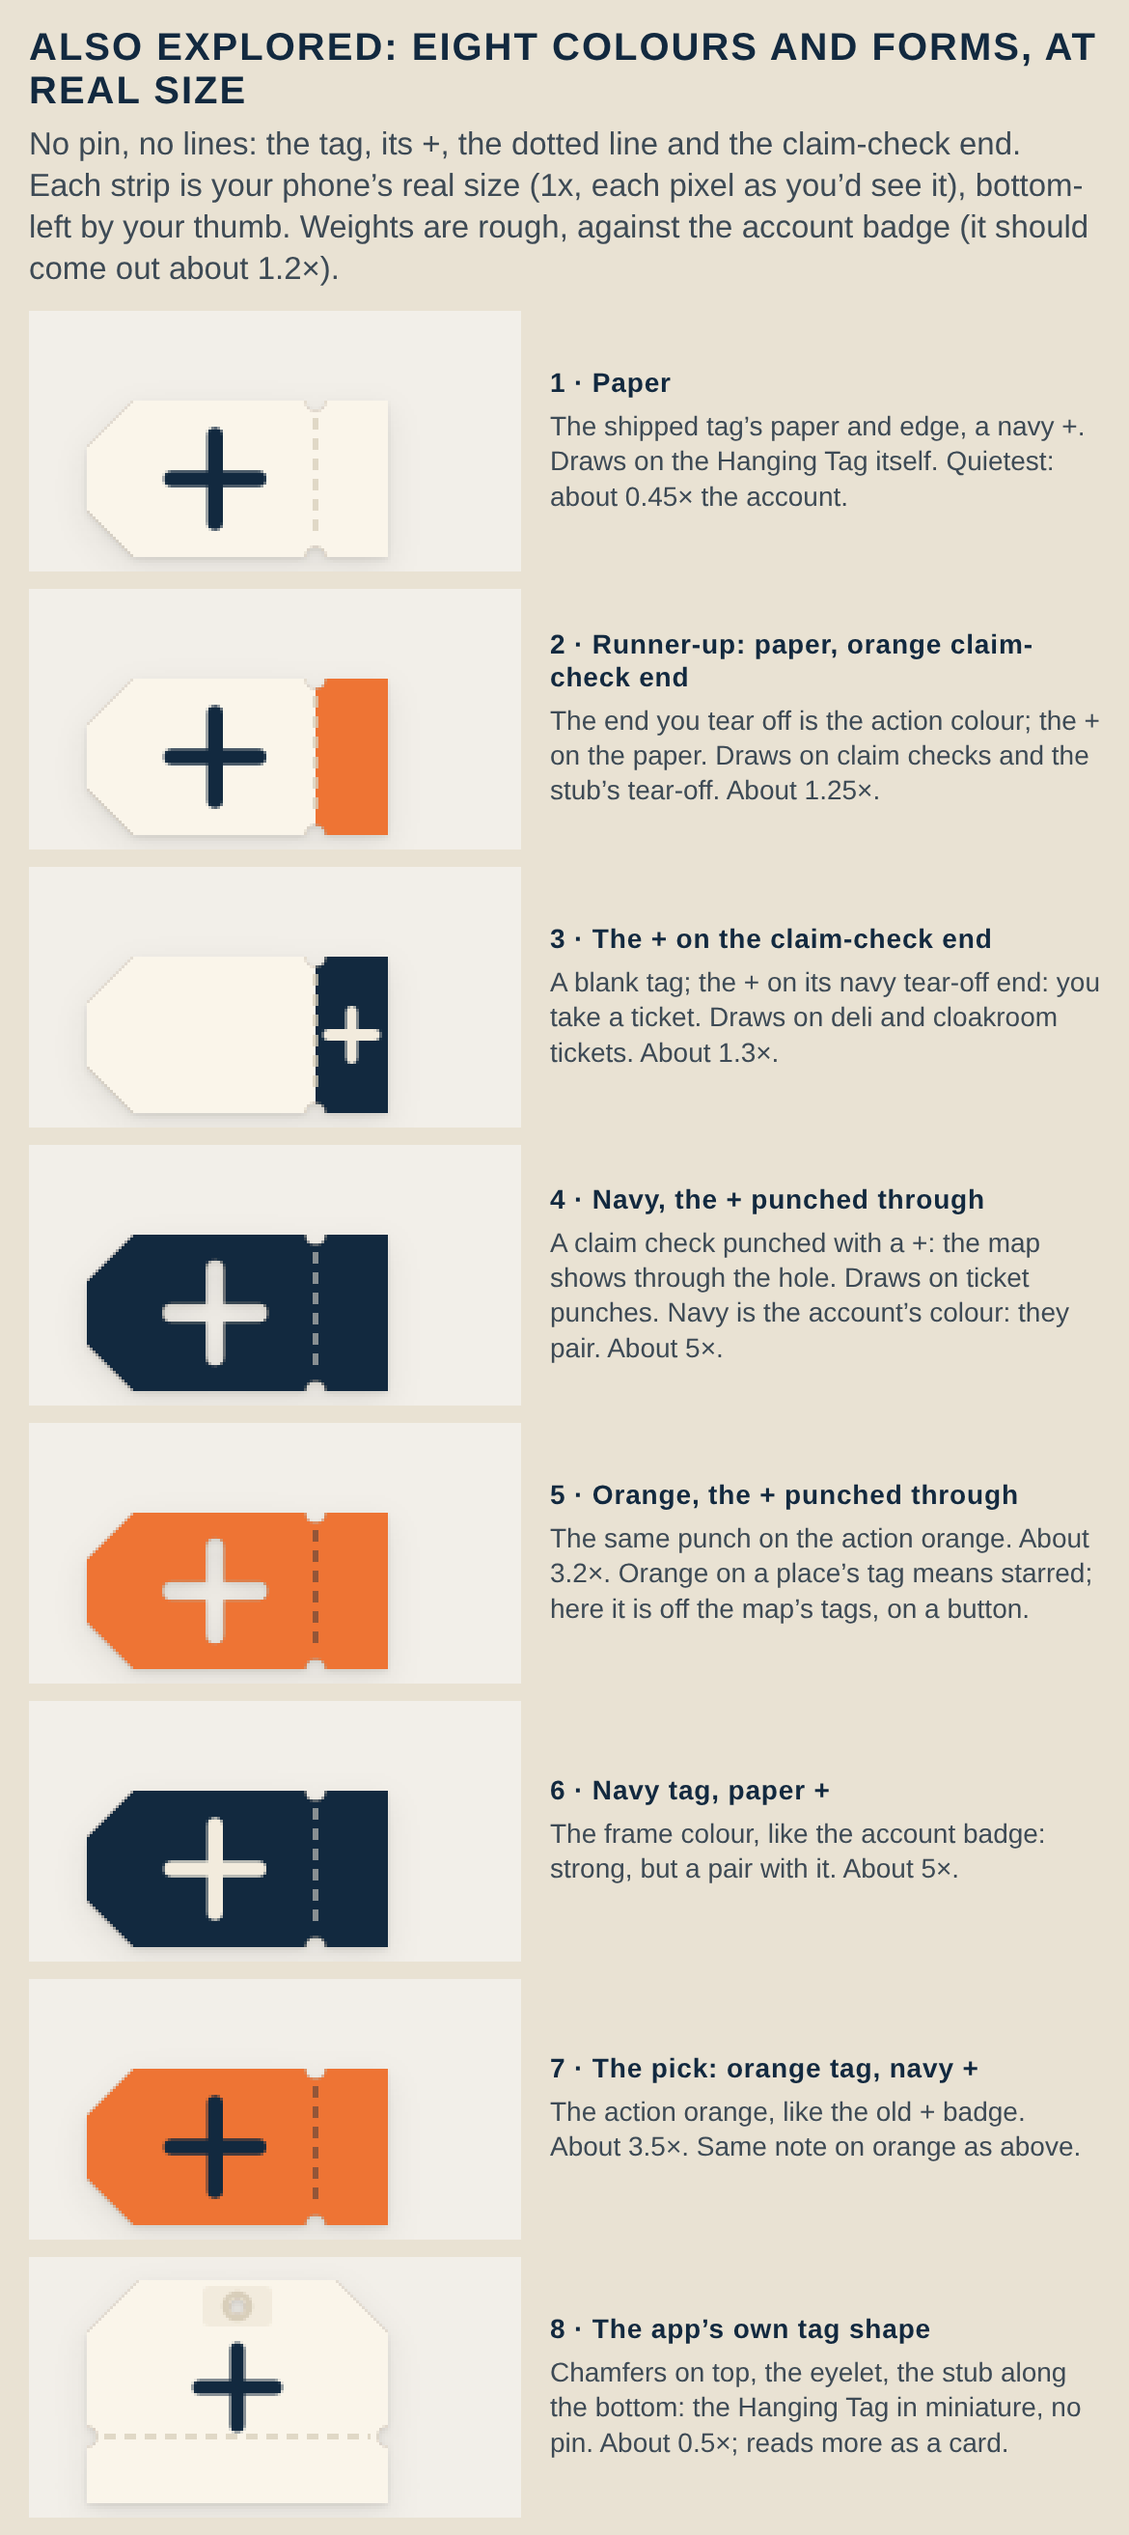
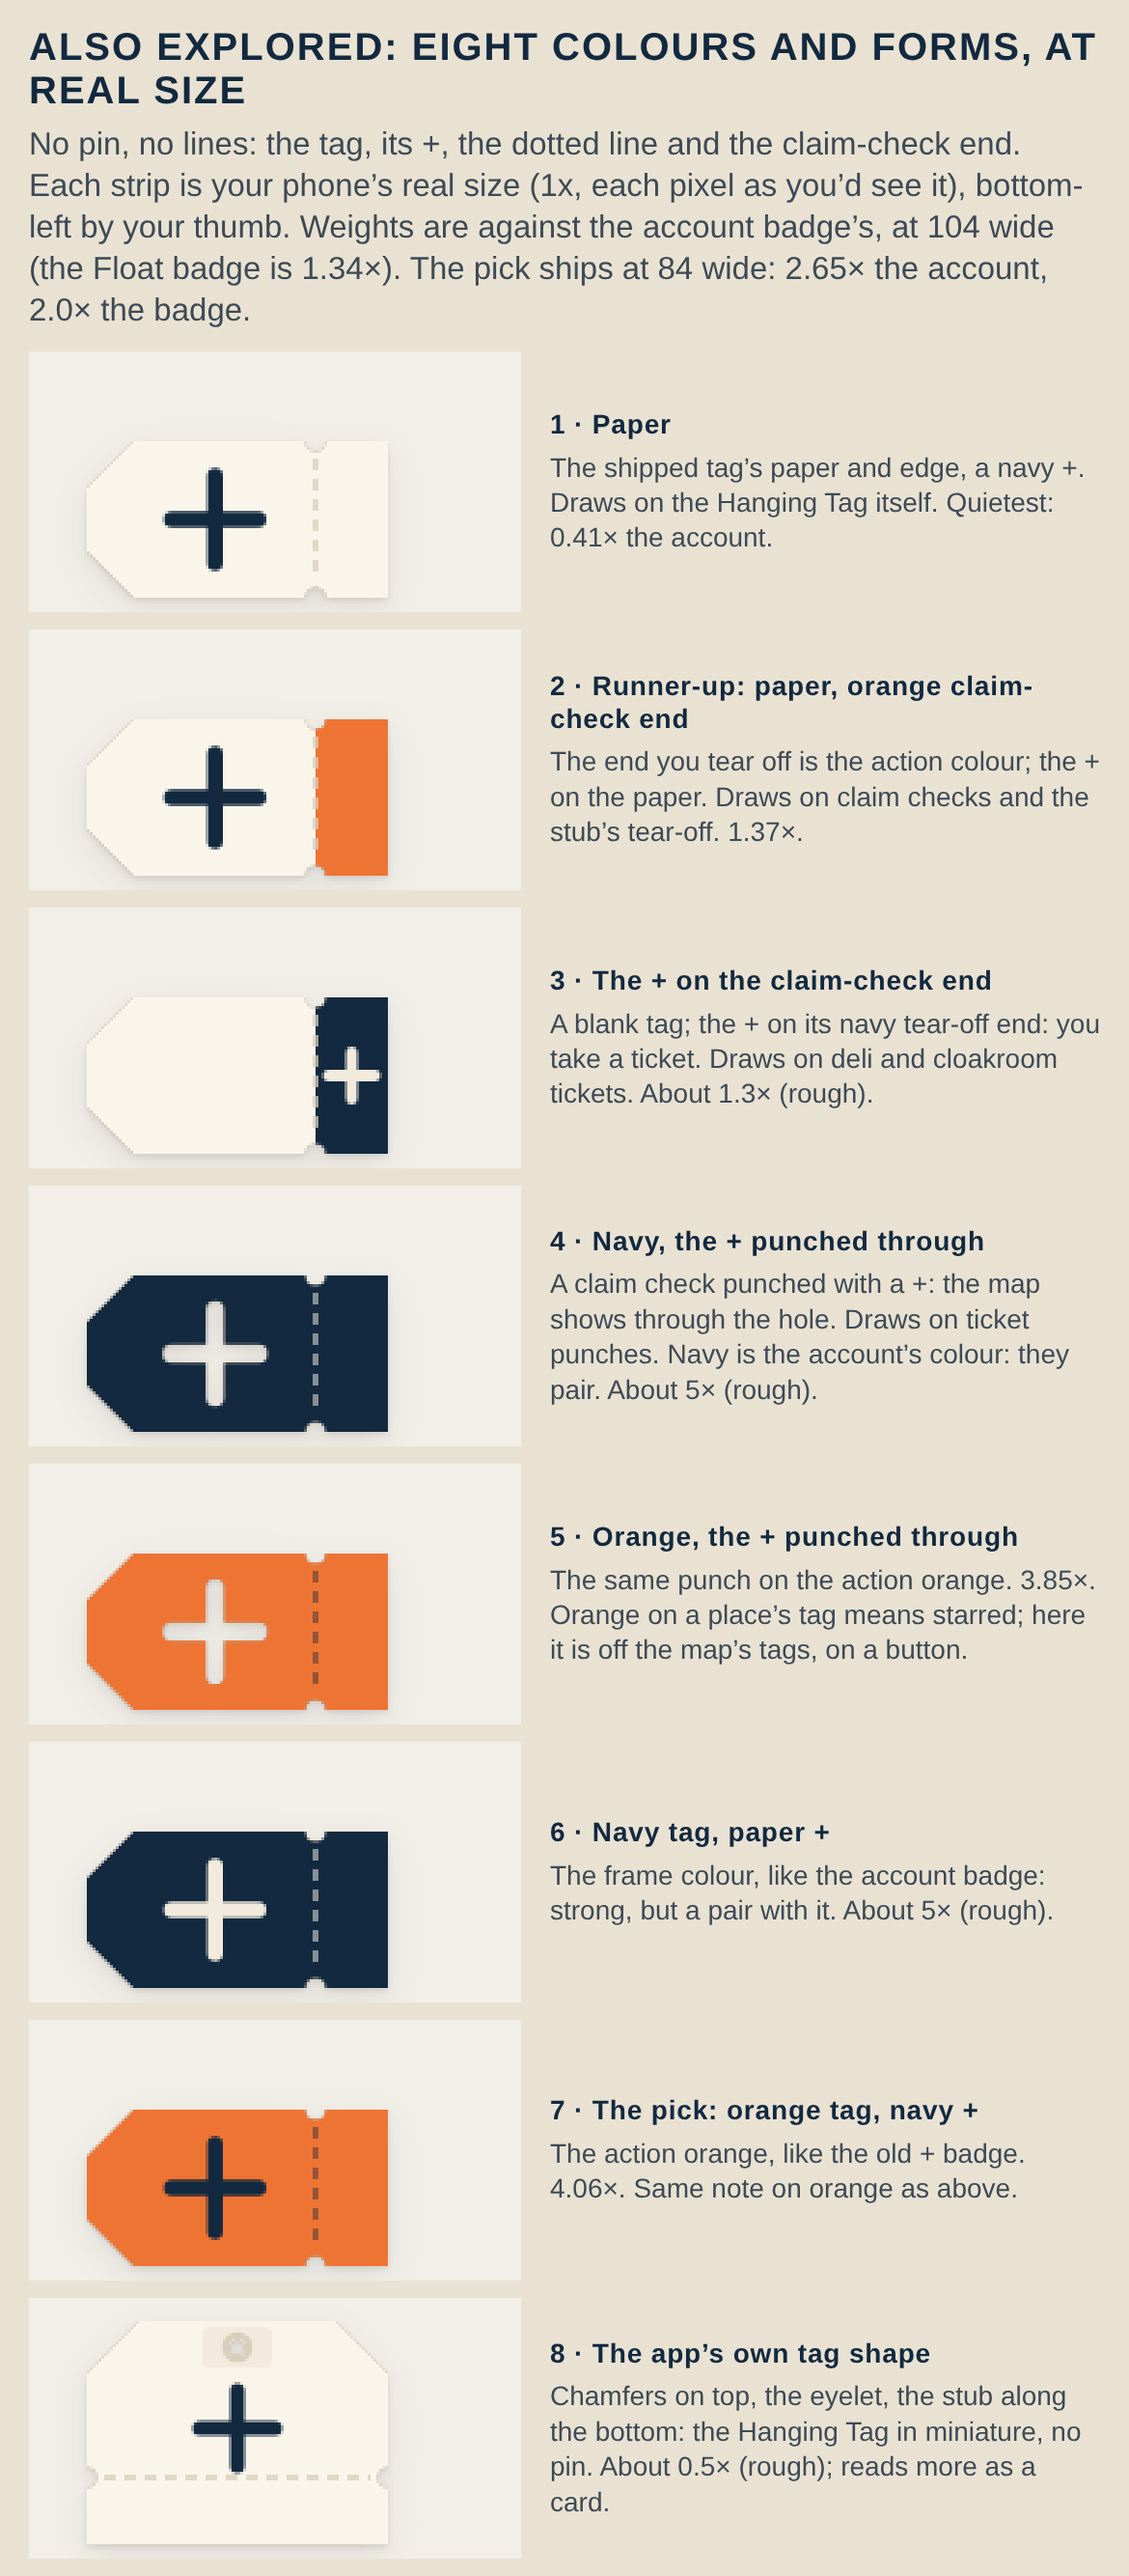
+ placement: round 10 sent to owner

diff --git a/design/add-button-placement/concepts/blank-tag-form/compose.js b/design/add-button-placement/concepts/blank-tag-form/compose.js
@@ -111,8 +111,8 @@ const pages = {
   [CP + 'C8-pressed-3x.png']: `${cap('Pressed', 'The pin goes deep orange and the tag goes to paper: the pressed grammar of every orange action.')}
      <div class="row" style="gap:20px">${col('Rest', crop(f('r9-c-rest'), 0, 430, 190, 525, 575 / 190), 575)}${col('Pressed', crop(f('r9-c-pressed'), 0, 430, 190, 525, 575 / 190), 575)}</div><div class="gap"></div>`,
   // ================= ROUND 10: the tag is the button =================
-  [R10 + 'R1-eight-ways-real-size-3x.png']: `${cap('Also explored: eight colours and forms, at real size', 'No pin, no lines: the tag, its +, the dotted line and the claim-check end. Each strip is your phone’s real size (1x, each pixel as you’d see it), bottom-left by your thumb. Weights are rough, against the account badge (it should come out about 1.2×).')}
-<div class="row" style="padding:0 30px;gap:30px;align-items:center">${crop1(f('t10-paper-1x'), 0, 436, 170, 526, 3)}<div style="flex:1"><div class="lab" style="padding-top:0">1 · Paper</div><div style="font-size:28px;line-height:1.3;color:#3d4a55">The shipped tag’s paper and edge, a navy +. Draws on the Hanging Tag itself. Quietest: about 0.45× the account.</div></div></div><div style="height:18px"></div><div class="row" style="padding:0 30px;gap:30px;align-items:center">${crop1(f('t10-twoend-1x'), 0, 436, 170, 526, 3)}<div style="flex:1"><div class="lab" style="padding-top:0">2 · Runner-up: paper, orange claim-check end</div><div style="font-size:28px;line-height:1.3;color:#3d4a55">The end you tear off is the action colour; the + on the paper. Draws on claim checks and the stub’s tear-off. About 1.25×.</div></div></div><div style="height:18px"></div><div class="row" style="padding:0 30px;gap:30px;align-items:center">${crop1(f('t10-stubplus-1x'), 0, 436, 170, 526, 3)}<div style="flex:1"><div class="lab" style="padding-top:0">3 · The + on the claim-check end</div><div style="font-size:28px;line-height:1.3;color:#3d4a55">A blank tag; the + on its navy tear-off end: you take a ticket. Draws on deli and cloakroom tickets. About 1.3×.</div></div></div><div style="height:18px"></div><div class="row" style="padding:0 30px;gap:30px;align-items:center">${crop1(f('t10-punch-1x'), 0, 436, 170, 526, 3)}<div style="flex:1"><div class="lab" style="padding-top:0">4 · Navy, the + punched through</div><div style="font-size:28px;line-height:1.3;color:#3d4a55">A claim check punched with a +: the map shows through the hole. Draws on ticket punches. Navy is the account’s colour: they pair. About 5×.</div></div></div><div style="height:18px"></div><div class="row" style="padding:0 30px;gap:30px;align-items:center">${crop1(f('t10-punchor-1x'), 0, 436, 170, 526, 3)}<div style="flex:1"><div class="lab" style="padding-top:0">5 · Orange, the + punched through</div><div style="font-size:28px;line-height:1.3;color:#3d4a55">The same punch on the action orange. About 3.2×. Orange on a place’s tag means starred; here it is off the map’s tags, on a button.</div></div></div><div style="height:18px"></div><div class="row" style="padding:0 30px;gap:30px;align-items:center">${crop1(f('t10-navy-1x'), 0, 436, 170, 526, 3)}<div style="flex:1"><div class="lab" style="padding-top:0">6 · Navy tag, paper +</div><div style="font-size:28px;line-height:1.3;color:#3d4a55">The frame colour, like the account badge: strong, but a pair with it. About 5×.</div></div></div><div style="height:18px"></div><div class="row" style="padding:0 30px;gap:30px;align-items:center">${crop1(f('t10-orange-1x'), 0, 436, 170, 526, 3)}<div style="flex:1"><div class="lab" style="padding-top:0">7 · The pick: orange tag, navy +</div><div style="font-size:28px;line-height:1.3;color:#3d4a55">The action orange, like the old + badge. About 3.5×. Same note on orange as above.</div></div></div><div style="height:18px"></div><div class="row" style="padding:0 30px;gap:30px;align-items:center">${crop1(f('t10-apptag-1x'), 0, 436, 170, 526, 3)}<div style="flex:1"><div class="lab" style="padding-top:0">8 · The app’s own tag shape</div><div style="font-size:28px;line-height:1.3;color:#3d4a55">Chamfers on top, the eyelet, the stub along the bottom: the Hanging Tag in miniature, no pin. About 0.5×; reads more as a card.</div></div></div><div style="height:18px"></div>`,
+  [R10 + 'R1-eight-ways-real-size-3x.png']: `${cap('Also explored: eight colours and forms, at real size', 'No pin, no lines: the tag, its +, the dotted line and the claim-check end. Each strip is your phone’s real size (1x, each pixel as you’d see it), bottom-left by your thumb. Weights are against the account badge’s, at 104 wide (the Float badge is 1.34×). The pick ships at 84 wide: 2.65× the account, 2.0× the badge.')}
+<div class="row" style="padding:0 30px;gap:30px;align-items:center">${crop1(f('t10-paper-1x'), 0, 436, 170, 526, 3)}<div style="flex:1"><div class="lab" style="padding-top:0">1 · Paper</div><div style="font-size:28px;line-height:1.3;color:#3d4a55">The shipped tag’s paper and edge, a navy +. Draws on the Hanging Tag itself. Quietest: 0.41× the account.</div></div></div><div style="height:18px"></div><div class="row" style="padding:0 30px;gap:30px;align-items:center">${crop1(f('t10-twoend-1x'), 0, 436, 170, 526, 3)}<div style="flex:1"><div class="lab" style="padding-top:0">2 · Runner-up: paper, orange claim-check end</div><div style="font-size:28px;line-height:1.3;color:#3d4a55">The end you tear off is the action colour; the + on the paper. Draws on claim checks and the stub’s tear-off. 1.37×.</div></div></div><div style="height:18px"></div><div class="row" style="padding:0 30px;gap:30px;align-items:center">${crop1(f('t10-stubplus-1x'), 0, 436, 170, 526, 3)}<div style="flex:1"><div class="lab" style="padding-top:0">3 · The + on the claim-check end</div><div style="font-size:28px;line-height:1.3;color:#3d4a55">A blank tag; the + on its navy tear-off end: you take a ticket. Draws on deli and cloakroom tickets. About 1.3× (rough).</div></div></div><div style="height:18px"></div><div class="row" style="padding:0 30px;gap:30px;align-items:center">${crop1(f('t10-punch-1x'), 0, 436, 170, 526, 3)}<div style="flex:1"><div class="lab" style="padding-top:0">4 · Navy, the + punched through</div><div style="font-size:28px;line-height:1.3;color:#3d4a55">A claim check punched with a +: the map shows through the hole. Draws on ticket punches. Navy is the account’s colour: they pair. About 5× (rough).</div></div></div><div style="height:18px"></div><div class="row" style="padding:0 30px;gap:30px;align-items:center">${crop1(f('t10-punchor-1x'), 0, 436, 170, 526, 3)}<div style="flex:1"><div class="lab" style="padding-top:0">5 · Orange, the + punched through</div><div style="font-size:28px;line-height:1.3;color:#3d4a55">The same punch on the action orange. 3.85×. Orange on a place’s tag means starred; here it is off the map’s tags, on a button.</div></div></div><div style="height:18px"></div><div class="row" style="padding:0 30px;gap:30px;align-items:center">${crop1(f('t10-navy-1x'), 0, 436, 170, 526, 3)}<div style="flex:1"><div class="lab" style="padding-top:0">6 · Navy tag, paper +</div><div style="font-size:28px;line-height:1.3;color:#3d4a55">The frame colour, like the account badge: strong, but a pair with it. About 5× (rough).</div></div></div><div style="height:18px"></div><div class="row" style="padding:0 30px;gap:30px;align-items:center">${crop1(f('t10-orange-1x'), 0, 436, 170, 526, 3)}<div style="flex:1"><div class="lab" style="padding-top:0">7 · The pick: orange tag, navy +</div><div style="font-size:28px;line-height:1.3;color:#3d4a55">The action orange, like the old + badge. 4.06×. Same note on orange as above.</div></div></div><div style="height:18px"></div><div class="row" style="padding:0 30px;gap:30px;align-items:center">${crop1(f('t10-apptag-1x'), 0, 436, 170, 526, 3)}<div style="flex:1"><div class="lab" style="padding-top:0">8 · The app’s own tag shape</div><div style="font-size:28px;line-height:1.3;color:#3d4a55">Chamfers on top, the eyelet, the stub along the bottom: the Hanging Tag in miniature, no pin. About 0.5× (rough); reads more as a card.</div></div></div><div style="height:18px"></div>`,
   [R10 + 'R2-paper-and-two-end-3x.png']: `${cap('Beside today: the quiet one and the claim-check one', 'Left: just paper (too quiet: it loses to the account badge). Right: the claim-check end in the action orange.')}
      ${pair(f('t10-paper'), 'Paper', f('t10-twoend'), 'Orange claim-check end', 640)}<div class="gap"></div>`,
   [R10 + 'R3-ticket-and-punch-3x.png']: `${cap('Beside today: take a ticket, and the punched +', 'Left: the + on the navy tear-off end. Right: the + punched through an orange tag.')}

diff --git a/design/add-button-placement/notes/orchestrator.md b/design/add-button-placement/notes/orchestrator.md
@@ -22,3 +22,10 @@
 - Rounds 9 (C 7, A 9), 9b (C 8, A 9), 9c (C 9, A 9). Filling model = owner's fallback (map still, pin drops in on ADD).
 - Orchestrator pre-send checks caught a stale C4 caption (fixed to systems' 1.24x/1.19x).
 - Sent 22 stills: C3, C1, C4, C2, C5, C6, C7; A1-A4; T2, T1, T3, T9, T7, T4, T5, T6, T8, T0; A5. C8 held back.
+
+## 2026-10-14 — round 10 sent
+- Owner (owner.md): A cut; push C (tag is the button, simplified, colour open); form: visual centre, unpinned->pinned, no dropdowns; answers (edit future, no save without ADD, hold-to-place future).
+- Round 10: Float 9, form 9, C #2 8 -> director picked #7 (orange tag, navy +) at 84px (2.65x account / 2.0x Float), 9. Coverage r10: all 18 jobs on both.
+- Orchestrator pre-send checks: director's cost line (wrong "steps aside") corrected via systems; R1 stale weights fixed.
+- Sent 23 stills (C0, C1-C6, R1-R4, F1-F6, R10-F1/F2/F5/F3/F6/F4). Open Q: visited while adding.
+- Backlog: edit-a-place, tap-a-map-business (future).
